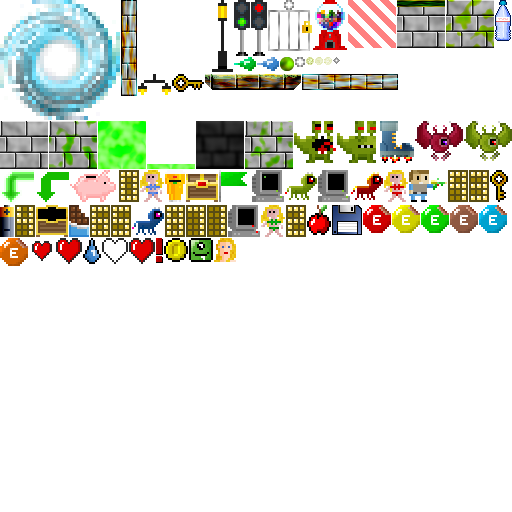
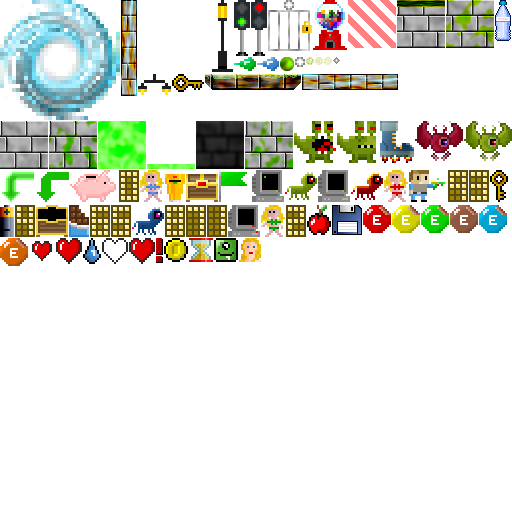
Added time limit (3 hours).

Changed region(s): [[0.3438, 0.4375, 0.5312, 0.5312]]

diff --git a/src/world/hud.c b/src/world/hud.c
@@ -29,6 +29,7 @@ static void drawCoins(void);
 static void drawMonsterInfo(void);
 static void drawGirlsInfo(void);
 static void drawKeys(void);
+static void drawTimeLimit(void);
 static void drawZoneInfo(void);
 static void drawGameText(void);
 
@@ -39,6 +40,7 @@ static AtlasImage *waterTexture;
 static AtlasImage *monstersTexture;
 static AtlasImage *girlsTexture;
 static AtlasImage *keyTexture;
+static AtlasImage *hourGlassTexture;
 
 void initHud(void)
 {
@@ -49,6 +51,7 @@ void initHud(void)
 	monstersTexture = getAtlasImage("gfx/hud/monsters.png", 1);
 	girlsTexture = getAtlasImage("gfx/hud/girls.png", 1);
 	keyTexture = getAtlasImage("gfx/hud/key.png", 1);
+	hourGlassTexture = getAtlasImage("gfx/hud/hourGlass.png", 1);
 }
 
 void addGameText(int x, int y, char *format, ...)
@@ -121,6 +124,8 @@ static void drawTopBar(void)
 	drawHealth();
 
 	drawAmmo();
+
+	drawZoneInfo();
 }
 
 static void drawHealth(void)
@@ -164,6 +169,11 @@ static void drawAmmo(void)
 	drawOutlineRect(542, 14, maxWidth, 16, 0, 0, 0, 255);
 }
 
+static void drawZoneInfo(void)
+{
+	drawText(SCREEN_WIDTH - 10, 5, 32, TEXT_RIGHT, app.colors.white, "Zone %03d", stage->id);
+}
+
 static void drawBottomBar(void)
 {
 	drawRect(0, SCREEN_HEIGHT - 32, SCREEN_WIDTH, 32, 0, 0, 0, 192);
@@ -176,7 +186,7 @@ static void drawBottomBar(void)
 
 	drawGirlsInfo();
 
-	drawZoneInfo();
+	drawTimeLimit();
 }
 
 static void drawMonsterInfo(void)
@@ -207,9 +217,19 @@ static void drawGirlsInfo(void)
 	drawText(600 + girlsTexture->rect.w + 16, SCREEN_HEIGHT - 32, 32, TEXT_LEFT, app.colors.white, "x %d", stage->numGirls);
 }
 
-static void drawZoneInfo(void)
+static void drawTimeLimit(void)
 {
-	drawText(SCREEN_WIDTH - 10, 5, 32, TEXT_RIGHT, app.colors.white, "Zone %03d", stage->id);
+	int t, h, m, s;
+
+	t = game.time / FPS;
+
+	h = t / (60 * 60);
+	m = (t / 60) % 60;
+	s = t % 60;
+
+	blitAtlasImage(hourGlassTexture, 800, SCREEN_HEIGHT - 28, 0, SDL_FLIP_NONE);
+
+	drawText(800 + hourGlassTexture->rect.w + 16, SCREEN_HEIGHT - 32, 32, TEXT_LEFT, app.colors.white, "%02d:%02d:%02d", h, m, s);
 }
 
 static void drawGameText(void)

diff --git a/src/game/load.c b/src/game/load.c
@@ -55,6 +55,7 @@ static void loadGameData(cJSON *root)
 	game.stageId = cJSON_GetObjectItem(root, "stageId")->valueint;
 	game.coins = cJSON_GetObjectItem(root, "coins")->valueint;
 	game.keys = cJSON_GetObjectItem(root, "keys")->valueint;
+	game.time = cJSON_GetObjectItem(root, "time")->valueint;
 }
 
 static void loadStages(cJSON *root)

diff --git a/src/game/save.c b/src/game/save.c
@@ -61,6 +61,7 @@ static void saveGameData(cJSON *root)
 	cJSON_AddNumberToObject(gameJSON, "stageId", game.stageId);
 	cJSON_AddNumberToObject(gameJSON, "coins", game.coins);
 	cJSON_AddNumberToObject(gameJSON, "keys", game.keys);
+	cJSON_AddNumberToObject(gameJSON, "time", game.time);
 
 	cJSON_AddItemToObject(root, "game", gameJSON);
 }

diff --git a/src/world/stage.c b/src/world/stage.c
@@ -123,6 +123,8 @@ static void logic(void)
 
 static void doGame(void)
 {
+	game.time--;
+
 	if (world.transferCube != NULL)
 	{
 		transfer();

diff --git a/src/structs.h b/src/structs.h
@@ -280,6 +280,7 @@ typedef struct {
 	int keys;
 	int totalMonsters;
 	int totalGirls;
+	int time;
 	unsigned int stats[STAT_MAX];
 } Game;
 

diff --git a/src/game/game.c b/src/game/game.c
@@ -26,6 +26,8 @@ void initGame(void)
 {
 	memset(&game, 0, sizeof(Game));
 
+	game.time = FPS * 60 * 60 * 3;
+
 	initMetaData();
 }
 
